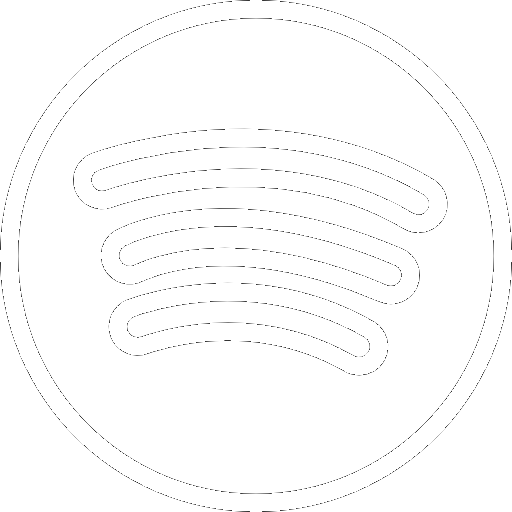
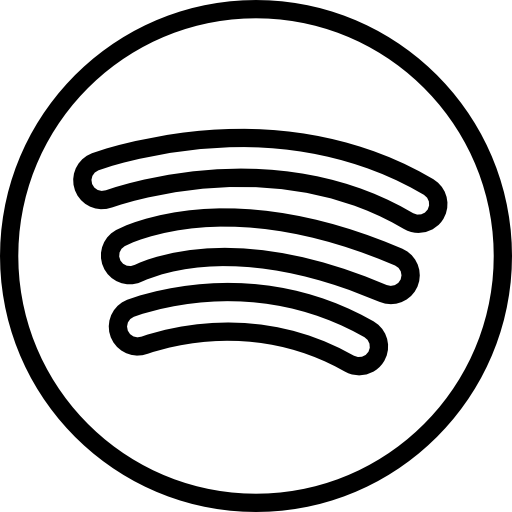
change bg on home page

Changed region(s): [[0.125, 0.25, 0.875, 0.75], [0.0, 0.0, 1.0, 1.0]]

diff --git a/src/components/Navbar.tsx b/src/components/Navbar.tsx
@@ -1,5 +1,5 @@
 import { useState } from "react";
-import { Link } from "react-router-dom";
+import { Link, useLocation } from "react-router-dom";
 import { Menu } from "lucide-react";
 import { X } from "lucide-react";
 import SoMe from "./SoMe";
@@ -8,6 +8,9 @@ import { useMenuContext } from "../context/MenuContext";
 
 function Navbar() {
   const { isOpen, openMenu, closeMenu } = useMenuContext();
+  const location = useLocation();
+
+  const whiteNavbar = useState(location.pathname === "/");
 
   const [menuItems] = useState([
     { label: "Home", path: "/" },
@@ -19,44 +22,53 @@ function Navbar() {
   return (
     <>
       <nav className="absolute h-16 sm:h-20 p-2 sm:px-4 flex justify-between w-full">
-        <div className="flex">
+        <div className={`flex ${whiteNavbar ? "text-stone-200" : ""}`}>
           <Link to="/">
-            <NavHeader menuOpen={false} />
+            <NavHeader />
           </Link>
         </div>
-        <div className="hidden sm:flex gap-8 p-4 text-lg hover:text-slate-400">
+        <div
+          className={`hidden sm:flex gap-8 m-4 text-lg hover:text-stone-400 ${
+            whiteNavbar ? "text-stone-200" : ""
+          } `}
+        >
           {menuItems.map((item) => (
-            <Link to={item.path} className="navLink" key={item.label}>
+            <Link
+              to={item.path}
+              className={`${whiteNavbar ? "navLinkWhite" : "navLink"}`}
+              key={item.label}
+            >
               {item.label}
             </Link>
           ))}
         </div>
         <div className="sm:hidden" onClick={openMenu}>
-          <Menu size={50} strokeWidth={1} />
+          <Menu
+            size={50}
+            strokeWidth={1}
+            className={`${
+              whiteNavbar ? "stroke-stone-200" : "stroke-stone-800"
+            }`}
+          />
         </div>
       </nav>
       {isOpen && (
-        <div className="fixed md:hidden top-0 left-0 w-screen h-screen darkTheme">
+        <div className="fixed md:hidden top-0 left-0 w-screen h-screen lightTheme">
           {/* logo and cross */}
           <div className="h-20 sm:h-24 p-2 flex justify-between w-full">
-            <NavHeader menuOpen={true} />
+            <NavHeader />
             <div className="flex justify-end">
-              <X
-                size={50}
-                strokeWidth={1}
-                className="stroke-white"
-                onClick={closeMenu}
-              />
+              <X size={50} strokeWidth={1} onClick={closeMenu} />
             </div>
           </div>
 
           {/* menu on mobile */}
-          <ul className="px-8 text-4xl text-white grid gap-3 w-min">
+          <ul className="text-4xl grid gap-4 text-center mt-8">
             {menuItems.map((item) => (
               <Link
                 key={item.label}
                 to={item.path}
-                className="hover:underline"
+                className="hover:font-medium"
                 onClick={closeMenu}
               >
                 {item.label}
@@ -66,10 +78,12 @@ function Navbar() {
 
           <div className="absolute bottom-4 w-full px-4 xs:px-8 sm:px-20">
             <div className="flex justify-between gap-2">
-              <SoMe face={true} size={50} />
-              <SoMe insta={true} size={50} />
-              <SoMe linkedin={true} size={50} />
-              <SoMe spotify={true} size={50} />
+              <SoMe face={true} size={40} />
+              <SoMe insta={true} size={40} />
+              <SoMe spotify={true} size={40} />
+              <SoMe apple_music={true} size={40} />
+              <SoMe yt={true} size={40} />
+              <SoMe linkedin={true} size={40} />
             </div>
           </div>
         </div>

diff --git a/src/pages/Home.tsx b/src/pages/Home.tsx
@@ -1,22 +1,36 @@
 import { InstagramEmbed } from "react-social-media-embed";
-import homeImg from "../assets/homeimg.jpg";
+import homeImg from "../assets/homeimg1.jpg";
 import ButtonNav from "../components/ButtonNav";
 import Bio from "../components/Bio";
 import SpotifyPlayer from "../components/SpotifyPlayer";
 import SmoothRender from "../components/SmoothRender";
+import Collage from "../components/Collage";
+
+//bg-gradient-to-b from-black via-[#0F1316] to-black
 
 function Home() {
   return (
     <div>
-      <img
-        src={homeImg}
-        alt="HomeImage"
-        className="object-cover w-full h-screen"
-      />
+      <div className="bg-gradient-to-b from-black via-[#0D1114] to-black h-screen">
+        <img
+          src={homeImg}
+          alt="HomeImage"
+          className="object-cover mx-auto h-screen pt-36"
+        />
+      </div>
 
+      {/* main content */}
       <div className="p-2 pt-8 pb-16 mx-auto sm:w-4/5 lg:w-2/3 xl:w-1/2 2xl:w-2/5 grid gap-8 sm:gap-12">
         <SmoothRender>
           <Bio />
+        </SmoothRender>
+
+        <SmoothRender>
+          <SpotifyPlayer link="https://open.spotify.com/embed/artist/4NZ0fCPxiuIaEHw9kUgURe?utm_source=generator&theme=0" />
+          <br />
+          <div className="flex justify-center">
+            <ButtonNav title="See discography" to="/music" />
+          </div>
         </SmoothRender>
 
         <SmoothRender>
@@ -25,13 +39,7 @@ function Home() {
           </div>
         </SmoothRender>
 
-        <SmoothRender>
-          <SpotifyPlayer link="https://open.spotify.com/embed/artist/4NZ0fCPxiuIaEHw9kUgURe?utm_source=generator&theme=0" />
-        </SmoothRender>
-
-        <div className="flex justify-center">
-          <ButtonNav title="See discography" to="/music" />
-        </div>
+        <Collage />
       </div>
     </div>
   );

diff --git a/src/components/SoMe.tsx b/src/components/SoMe.tsx
@@ -1,4 +1,4 @@
-import { Facebook } from "lucide-react";
+import { Facebook, Music } from "lucide-react";
 import { Instagram } from "lucide-react";
 import { Youtube } from "lucide-react";
 import { Linkedin } from "lucide-react";
@@ -10,10 +10,19 @@ interface Props {
   yt?: boolean;
   linkedin?: boolean;
   spotify?: boolean;
+  apple_music?: boolean;
   size?: number;
 }
 
-function SoMe({ face, insta, yt, size, linkedin, spotify }: Props) {
+function SoMe({
+  face,
+  insta,
+  yt,
+  size,
+  linkedin,
+  spotify,
+  apple_music,
+}: Props) {
   return (
     <div>
       {face && (
@@ -35,7 +44,10 @@ function SoMe({ face, insta, yt, size, linkedin, spotify }: Props) {
       )}
       {yt && (
         <div>
-          <a href="https://youtube.com/" target="blank">
+          <a
+            href="https://www.youtube.com/channel/UCAltmN05xqbQTgOJCbBNeag"
+            target="blank"
+          >
             <Youtube size={size} className="soMeIcon" />
           </a>
         </div>
@@ -62,6 +74,16 @@ function SoMe({ face, insta, yt, size, linkedin, spotify }: Props) {
               className="soMeIcon"
               width={size}
             />
+          </a>
+        </div>
+      )}
+      {apple_music && (
+        <div>
+          <a
+            href="https://music.apple.com/us/artist/ola-l%C3%B8mo-ellingsen/1541847395"
+            target="blank"
+          >
+            <Music size={size} className="soMeIcon" />
           </a>
         </div>
       )}

diff --git a/src/components/Footer.tsx b/src/components/Footer.tsx
@@ -6,28 +6,30 @@ function Footer() {
   const { isSignedIn, login, logout } = useAuth();
 
   return (
-    <div className="text-white p-4">
+    <div className="p-4">
       <div className="grid gap-8 sm:flex justify-between p-2 sm:p-6 sm:px-12">
         {/* contact */}
         <div className="grid gap-2">
-          <div className="flex gap-2 underline">
-            <Mail size={25} />
+          <div className="flex gap-2">
+            <Mail className="stroke-1" size={25} />
             <a href="mailto:ola.l.ellingsen@gmail.com">
               ola.l.ellingsen@gmail.com
             </a>
           </div>
           <div className="flex gap-2">
-            <Phone size={25} />
+            <Phone className="stroke-1" size={25} />
             <a href="tel:+4790197381">+47 90 19 73 81</a>
           </div>
         </div>
 
         {/* social media */}
-        <div className="flex justify-between gap-2">
-          <SoMe face={true} size={40} />
-          <SoMe insta={true} size={40} />
-          <SoMe linkedin={true} size={40} />
-          <SoMe spotify={true} size={40} />
+        <div className="flex justify-between gap-3">
+          <SoMe face={true} size={30} />
+          <SoMe insta={true} size={30} />
+          <SoMe spotify={true} size={30} />
+          <SoMe apple_music={true} size={30} />
+          <SoMe yt={true} size={30} />
+          <SoMe linkedin={true} size={30} />
         </div>
       </div>
 

diff --git a/src/components/Collage.tsx b/src/components/Collage.tsx
@@ -1,0 +1,35 @@
+import SmoothRender from "./SmoothRender";
+
+function Collage() {
+  const images = [
+    "https://source.unsplash.com/1600x900/?nature",
+    "https://source.unsplash.com/1600x900/?water",
+    "https://source.unsplash.com/1600x900/?mountain",
+    "https://source.unsplash.com/1600x900/?forest",
+    "https://source.unsplash.com/1600x900/?sky",
+    "https://source.unsplash.com/1600x900/?clouds",
+    "https://source.unsplash.com/1600x900/?sunset",
+    "https://source.unsplash.com/1600x900/?sunrise",
+    "https://source.unsplash.com/1600x900/?moon",
+    "https://source.unsplash.com/1600x900/?stars",
+    "https://source.unsplash.com/1600x900/?night",
+    "https://source.unsplash.com/1600x900/?day",
+  ];
+
+  return (
+    <div>
+      <div className="grid grid-cols-1 xs:grid-cols-2 md:grid-cols-3 lg:grid-cols-4 gap-2">
+        {images.map((image, index) => (
+          <img
+            src={image}
+            alt={`CollageImage${index}`}
+            className="object-cover w-full h-48 sm:h-64"
+            key={index}
+          />
+        ))}
+      </div>
+    </div>
+  );
+}
+
+export default Collage;

diff --git a/src/components/Event.tsx b/src/components/Event.tsx
@@ -36,11 +36,11 @@ function Event({
 
   return (
     <div
-      className={`border-b border-slate-500 py-2 ${
-        isPast ? "text-slate-400" : "text-slate-50"
+      className={` text-stone-200 p-4 rounded-lg shadow-xl ${
+        isPast ? "bg-primary/60" : "bg-primary"
       }`}
     >
-      <h3 className="flex justify-between font-normal">
+      <h3 className="flex justify-between">
         {band}
         {isSignedIn && (
           <div className="flex gap-2">
@@ -70,6 +70,7 @@ function Event({
             <a
               className={venueLink !== undefined ? "underline" : ""}
               href={venueLink}
+              target="_blank"
             >
               {venue}
             </a>
@@ -78,7 +79,7 @@ function Event({
           {ticketLink !== undefined && ticketLink !== "" && !isPast && (
             <div className="flex gap-1">
               <Ticket strokeWidth={1} />
-              <a className="underline" href={ticketLink}>
+              <a className="underline" href={ticketLink} target="_blank">
                 Tickets
               </a>
             </div>

diff --git a/src/index.css b/src/index.css
@@ -7,7 +7,7 @@
 }
 
 .darkTheme {
-  @apply bg-slate-900 text-slate-300;
+  @apply bg-stone-800 text-stone-200;
 }
 
 .mainContent {
@@ -32,11 +32,15 @@ h3 {
 }
 
 .navLink {
-  @apply hover:cursor-pointer hover:text-slate-200 transition-all ease-in-out;
+  @apply hover:cursor-pointer hover:text-stone-800 transition-all ease-in-out;
+}
+
+.navLinkWhite {
+  @apply hover:cursor-pointer hover:text-stone-200 transition-all ease-in-out;
 }
 
 .soMeIcon {
-  @apply hover:cursor-pointer hover:scale-105 stroke-white stroke-1;
+  @apply hover:cursor-pointer hover:scale-105 stroke-1;
 }
 
 p,
@@ -53,5 +57,5 @@ li {
 }
 
 .button {
-  @apply bg-primary/50 md:hover:bg-primary text-white rounded-md border border-primary px-4 py-2 hover:cursor-pointer transition-all ease-in-out;
+  @apply md:hover:bg-primary md:hover:text-stone-200 rounded-full border border-primary px-4 py-2 hover:cursor-pointer transition-all ease-in-out;
 }

diff --git a/src/pages/Music.tsx b/src/pages/Music.tsx
@@ -35,11 +35,10 @@ function Music() {
   }, []);
 
   return (
-    <div className="grid gap-2 mainContent">
+    <div className="grid gap-4 mainContent">
       <h1>Music</h1>
-      <br />
       {albums.length === 0 && <Spinner />}
-      <div className="grid gap-2 md:grid-cols-2 sm:gap-4">
+      <div className="grid gap-2 md:pt-8 md:grid-cols-2 sm:gap-4">
         {albums.map((album, index) => (
           <SmoothRender key={album} index={index} delay={200}>
             <iframe

diff --git a/src/App.tsx b/src/App.tsx
@@ -15,7 +15,7 @@ function App() {
     <BrowserRouter>
       <AuthProvider>
         <MenuProvider>
-          <div className="darkTheme flex flex-col min-h-screen font-extralight">
+          <div className="lightTheme flex flex-col min-h-screen font-extralight">
             <Navbar />
             <div className="flex-grow">
               <Routes>

diff --git a/src/components/Spinner.tsx b/src/components/Spinner.tsx
@@ -7,7 +7,7 @@ type Props = {
 function Spinner({ isLoading = true }: Props) {
   return (
     <div className="flex justify-center pt-32">
-      <ClipLoader color="white" loading={isLoading} size={100} />
+      <ClipLoader loading={isLoading} size={100} />
     </div>
   );
 }

diff --git a/src/components/NavHeader.tsx b/src/components/NavHeader.tsx
@@ -1,4 +1,4 @@
-function NavHeader({ menuOpen }: { menuOpen: boolean }) {
+function NavHeader() {
   return (
     <div className="hover:cursor-pointer">
       <h1 className={`hidden sm:flex`}>Ola Lømo Ellingsen</h1>
